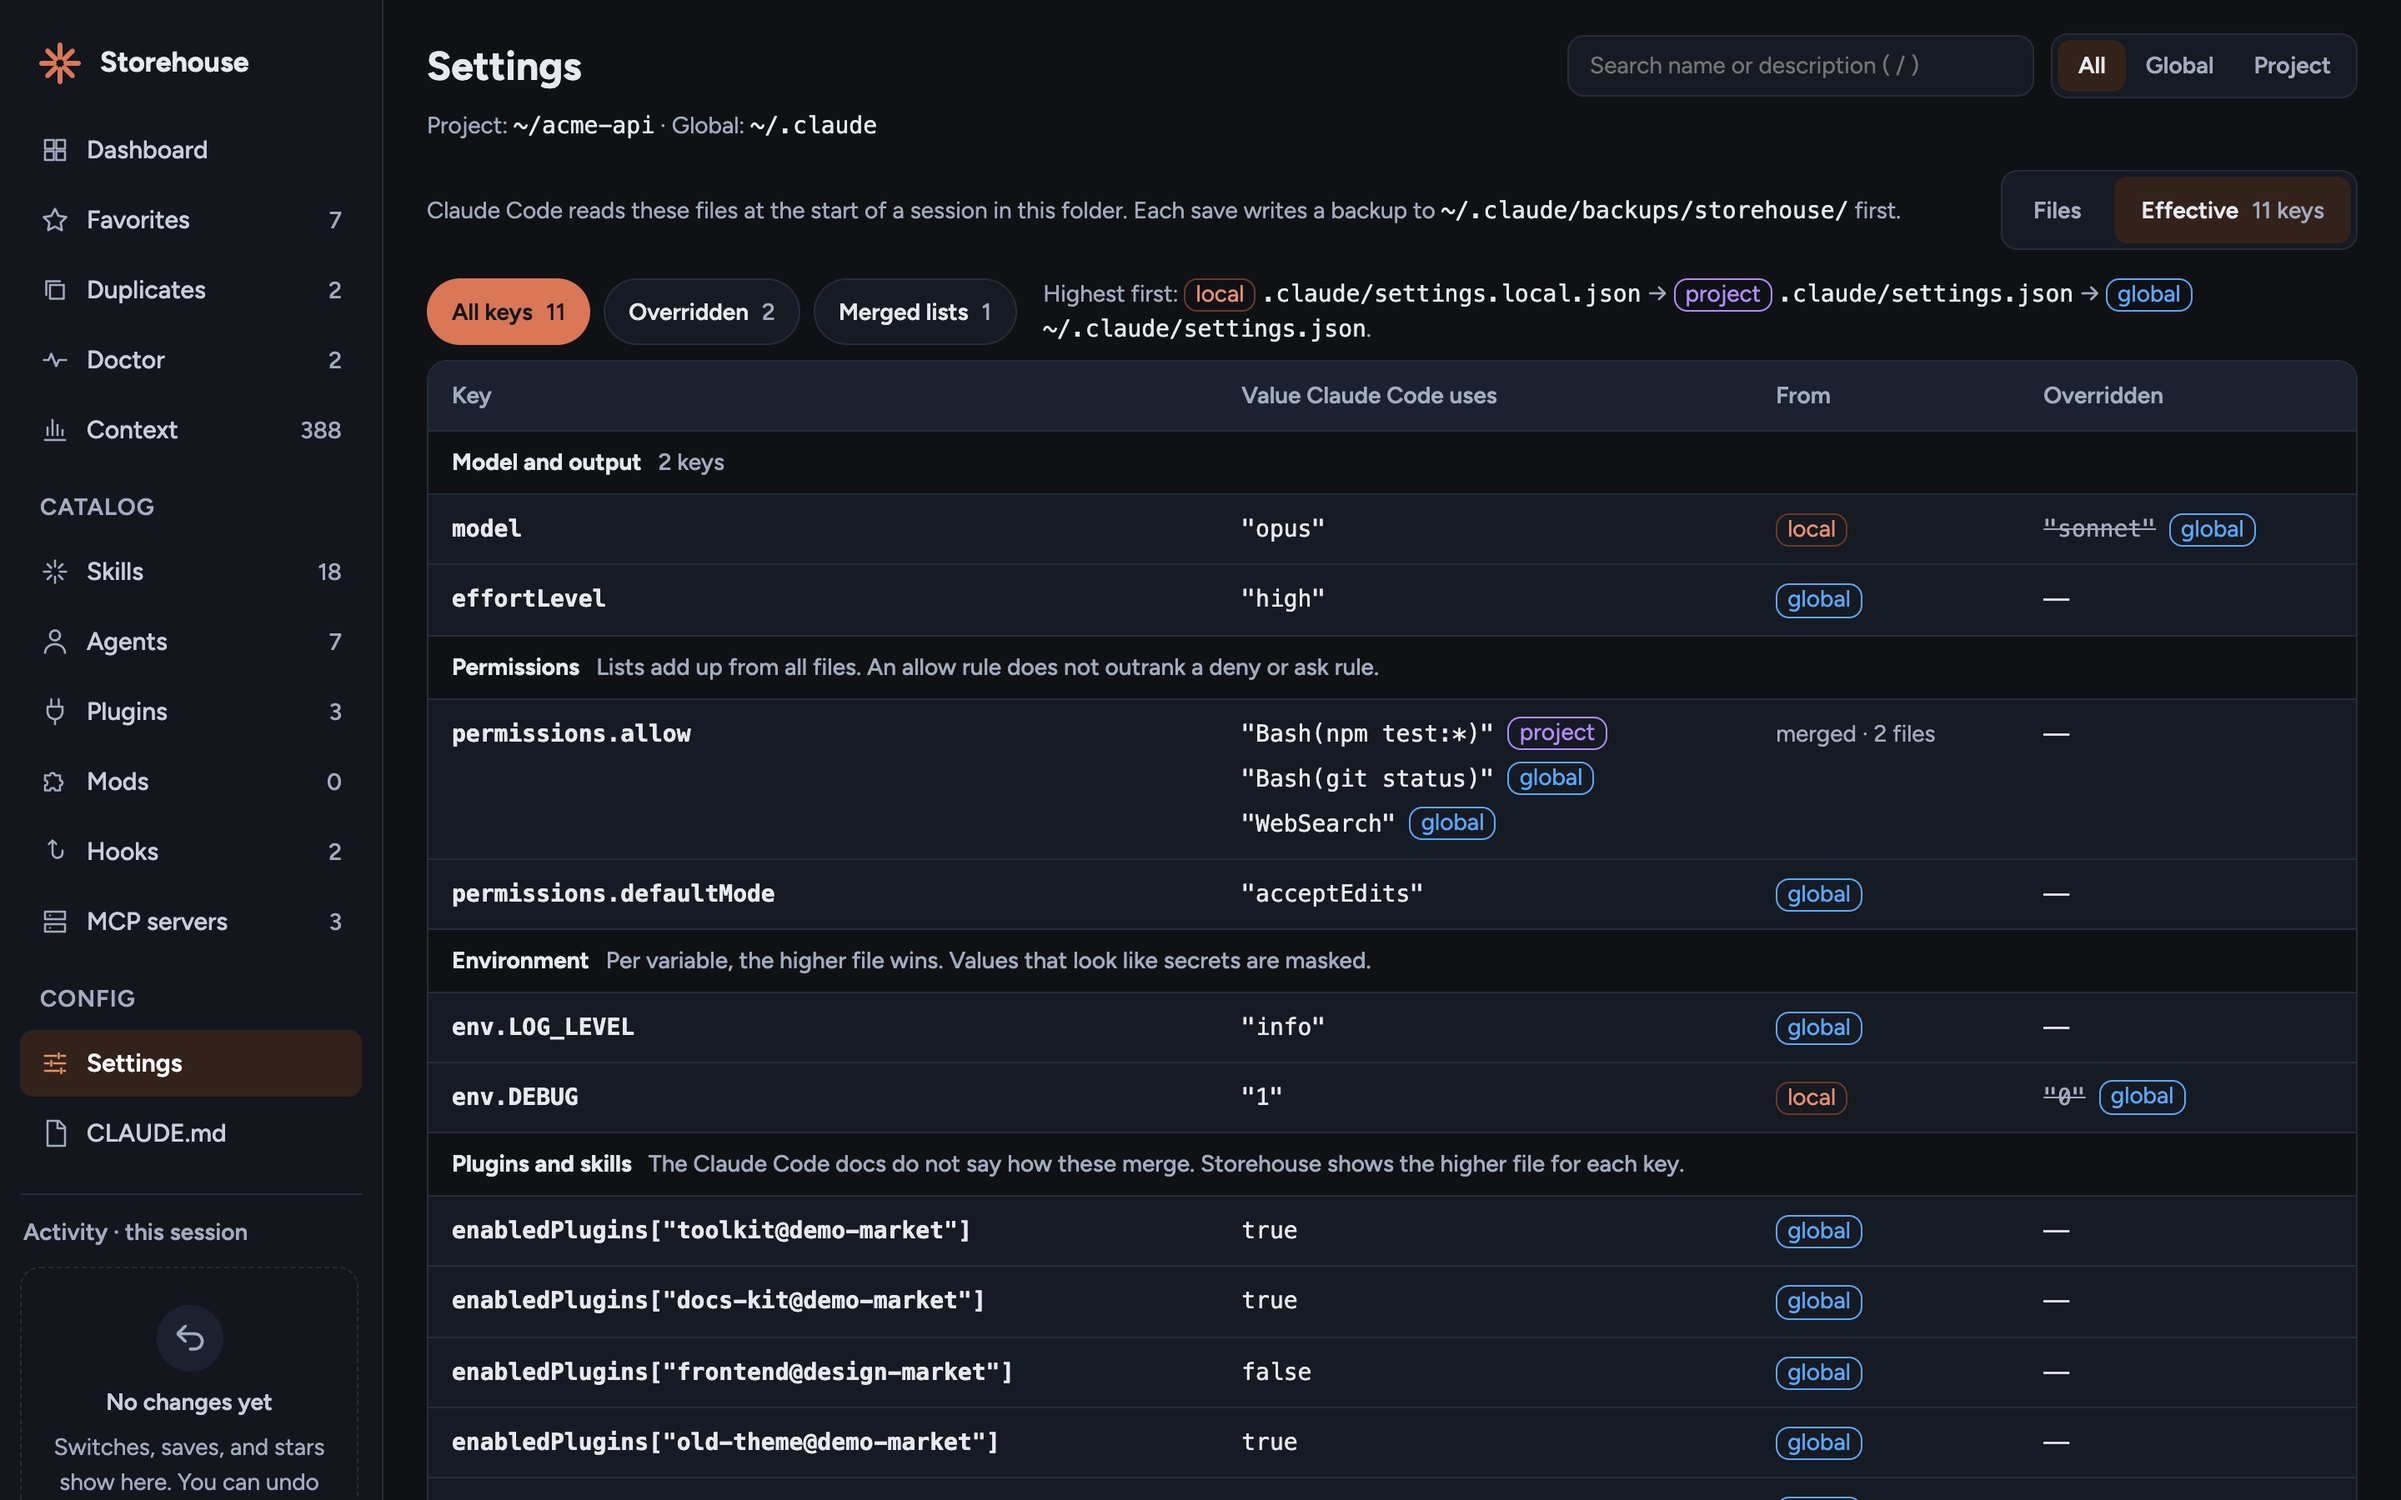
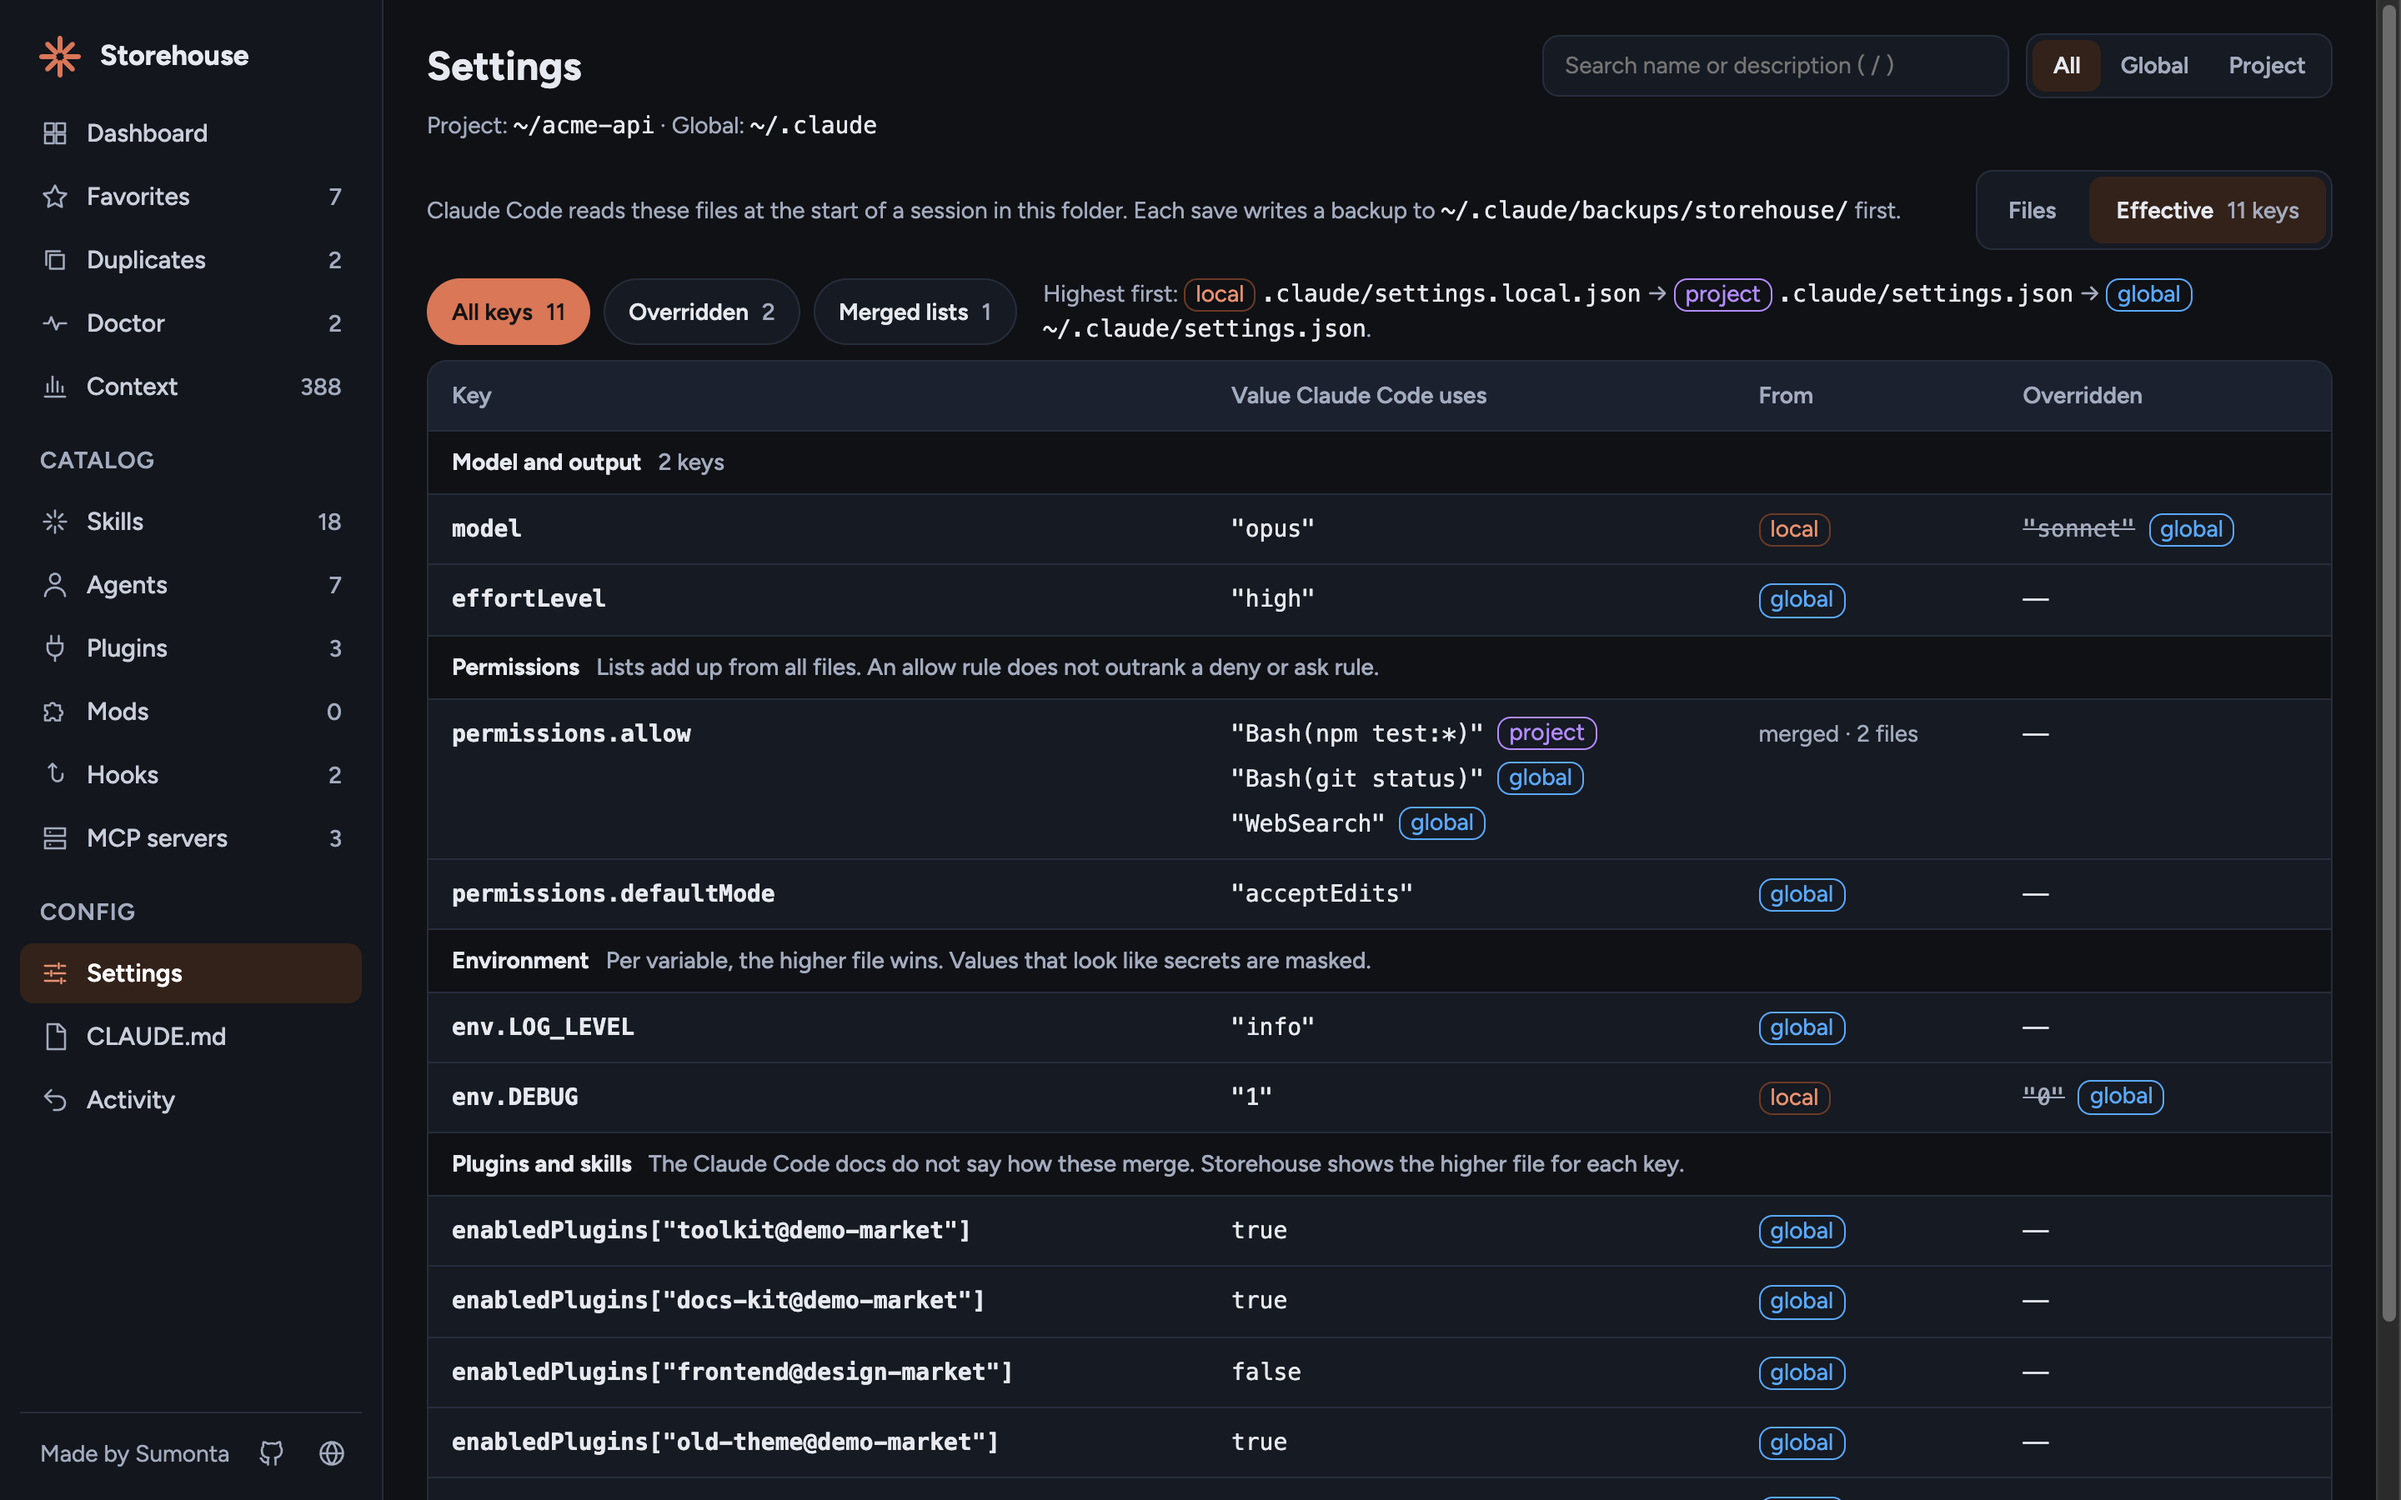
docs(site): update screenshots and README for the new sidebar

diff --git a/README.md b/README.md
@@ -149,11 +149,12 @@ After a few months with Claude Code you have dozens of skills, a handful of plug
 ### Edit in place, undo anything
 
 - Open any file you own in the drawer, edit it, and save with `⌘S`. Plugin cache files stay read-only.
-- Every switch, star, and save shows in the Activity log with Undo.
+- Every switch, star, and save shows on the Activity page with Undo.
 - The latest save of each file can be restored from its backup.
+- The CLAUDE.md page lists each `CLAUDE.md` that Claude Code loads in this folder, with an editor for each.
 - Create a missing `CLAUDE.md`, `.claude/settings.json`, `.claude/settings.local.json`, or `.mcp.json`.
 
-![A skill open in the drawer editor, with the Activity log and its undo button in the sidebar](https://raw.githubusercontent.com/Sumonta056/claude-storehouse/main/docs/images/editor.png)
+![A skill open in the drawer editor with its file path and the Save button](https://raw.githubusercontent.com/Sumonta056/claude-storehouse/main/docs/images/editor.png)
 
 ## Live demo
 
